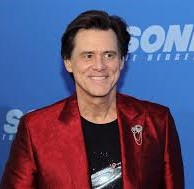
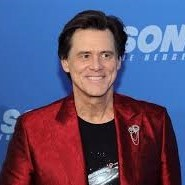
initial commit

diff --git a/index.html b/index.html
@@ -80,10 +80,6 @@
         <!--Clients-->
         <section class="clients">
             <h2>Meet the people <br> <b>We are working with</b></h2>
-            <div class="button-container">
-                <img src="./assets/svg/Btn-left.svg" alt="left">
-                <img src="./assets/svg/Btn-left.svg" alt="right">
-            </div>
             <div class="client-list-container">
                 <div class="client-lists">
                     <img src="./assets/svg/client1.svg" alt="client" class="client-tile">
@@ -180,7 +176,7 @@
                     <p class="para-2">Our <span>delivery model</span> helps you cut costs and deliver within budget.</p>
                     <article><q>Simform is quick to identify larger problem with the Software so we decided to expand our scope to build new modules</q></article>
                     <div class="author">
-                        <img src="./assets/client-avatar1.png" alt="author">
+                        <img src="./assets/markrem.jpeg" alt="author">
                         <p>Jeeva markrem <br><span>CEO</span></p>
                     </div>
                 </div>
@@ -195,7 +191,7 @@
                     <p class="para-2">Our <span>delivery model</span> helps you cut costs and deliver within budget.</p>
                     <article><q>Simform is quick to identify larger problem with the Software so we decided to expand our scope to build new modules</q></article>
                     <div class="author">
-                        <img src="./assets/client-avatar1.png" alt="author">
+                        <img src="./assets/markrem.jpeg" alt="author">
                         <p>Jeeva markrem <br><span>CEO</span></p>
                     </div>
                 </div>
@@ -210,7 +206,7 @@
                     <p class="para-2">Our <span>delivery model</span> helps you cut costs and deliver within budget.</p>
                     <article><q>Simform is quick to identify larger problem with the Software so we decided to expand our scope to build new modules</q></article>
                     <div class="author">
-                        <img src="./assets/client-avatar1.png" alt="author">
+                        <img src="./assets/markrem.jpeg" alt="author">
                         <p>Jeeva markrem <br><span>CEO</span></p>
                     </div>
                 </div>
@@ -263,7 +259,7 @@
         </section>
 
         <!--Tech stacks-->
-        <section class="tech-stacks">
+        <section id="tech-stacks" class="tech-stacks">
             <h2>Our<br><b>Tech stacks</b></h2>
             <nav>
                 <ul>
@@ -421,13 +417,13 @@
             <h4>Links</h4>
             <nav>
                 <ul>
-                    <li>About Us</li>
-                    <li>Services</li>
-                    <li>Case Studies</li>
-                    <li>How it works</li>
-                    <li>Blog</li>
+                    <li><a href="#about-us">About Us</a></li>
+                    <li><a href="#our-services">Services</a></li>
+                    <li><a href="#case-studies">Case Studies</a></li>
+                    <li><a href="#how-it-works">How it works</a></li>
+                    <li><a href="#blogs">Blog</a></li>
                     <li>Careers</li>
-                    <li>Areas We Serve</li>
+                    <li><a href="#tech-stacks">Areas We Serve</a></li>
                 </ul>
             </nav>
         </section>

diff --git a/css/index.css b/css/index.css
@@ -270,6 +270,9 @@ section.clients .client-lists{
     From{transform: translateX(50px);}
     To{transform: translateX(-1400px);}
 }
+section.clients .client-lists:hover{
+    animation-play-state: paused;
+}
 section.clients .client-lists img.client-tile{
     height: 5rem;
 }
@@ -774,6 +777,10 @@ section.links nav ul li{
     color: #718096;
     margin: 1rem 0;
     cursor: pointer;
+}
+section.links nav ul li a{
+    color: #718096;
+    text-decoration: none;
 }
 
 /*contact-us*/
